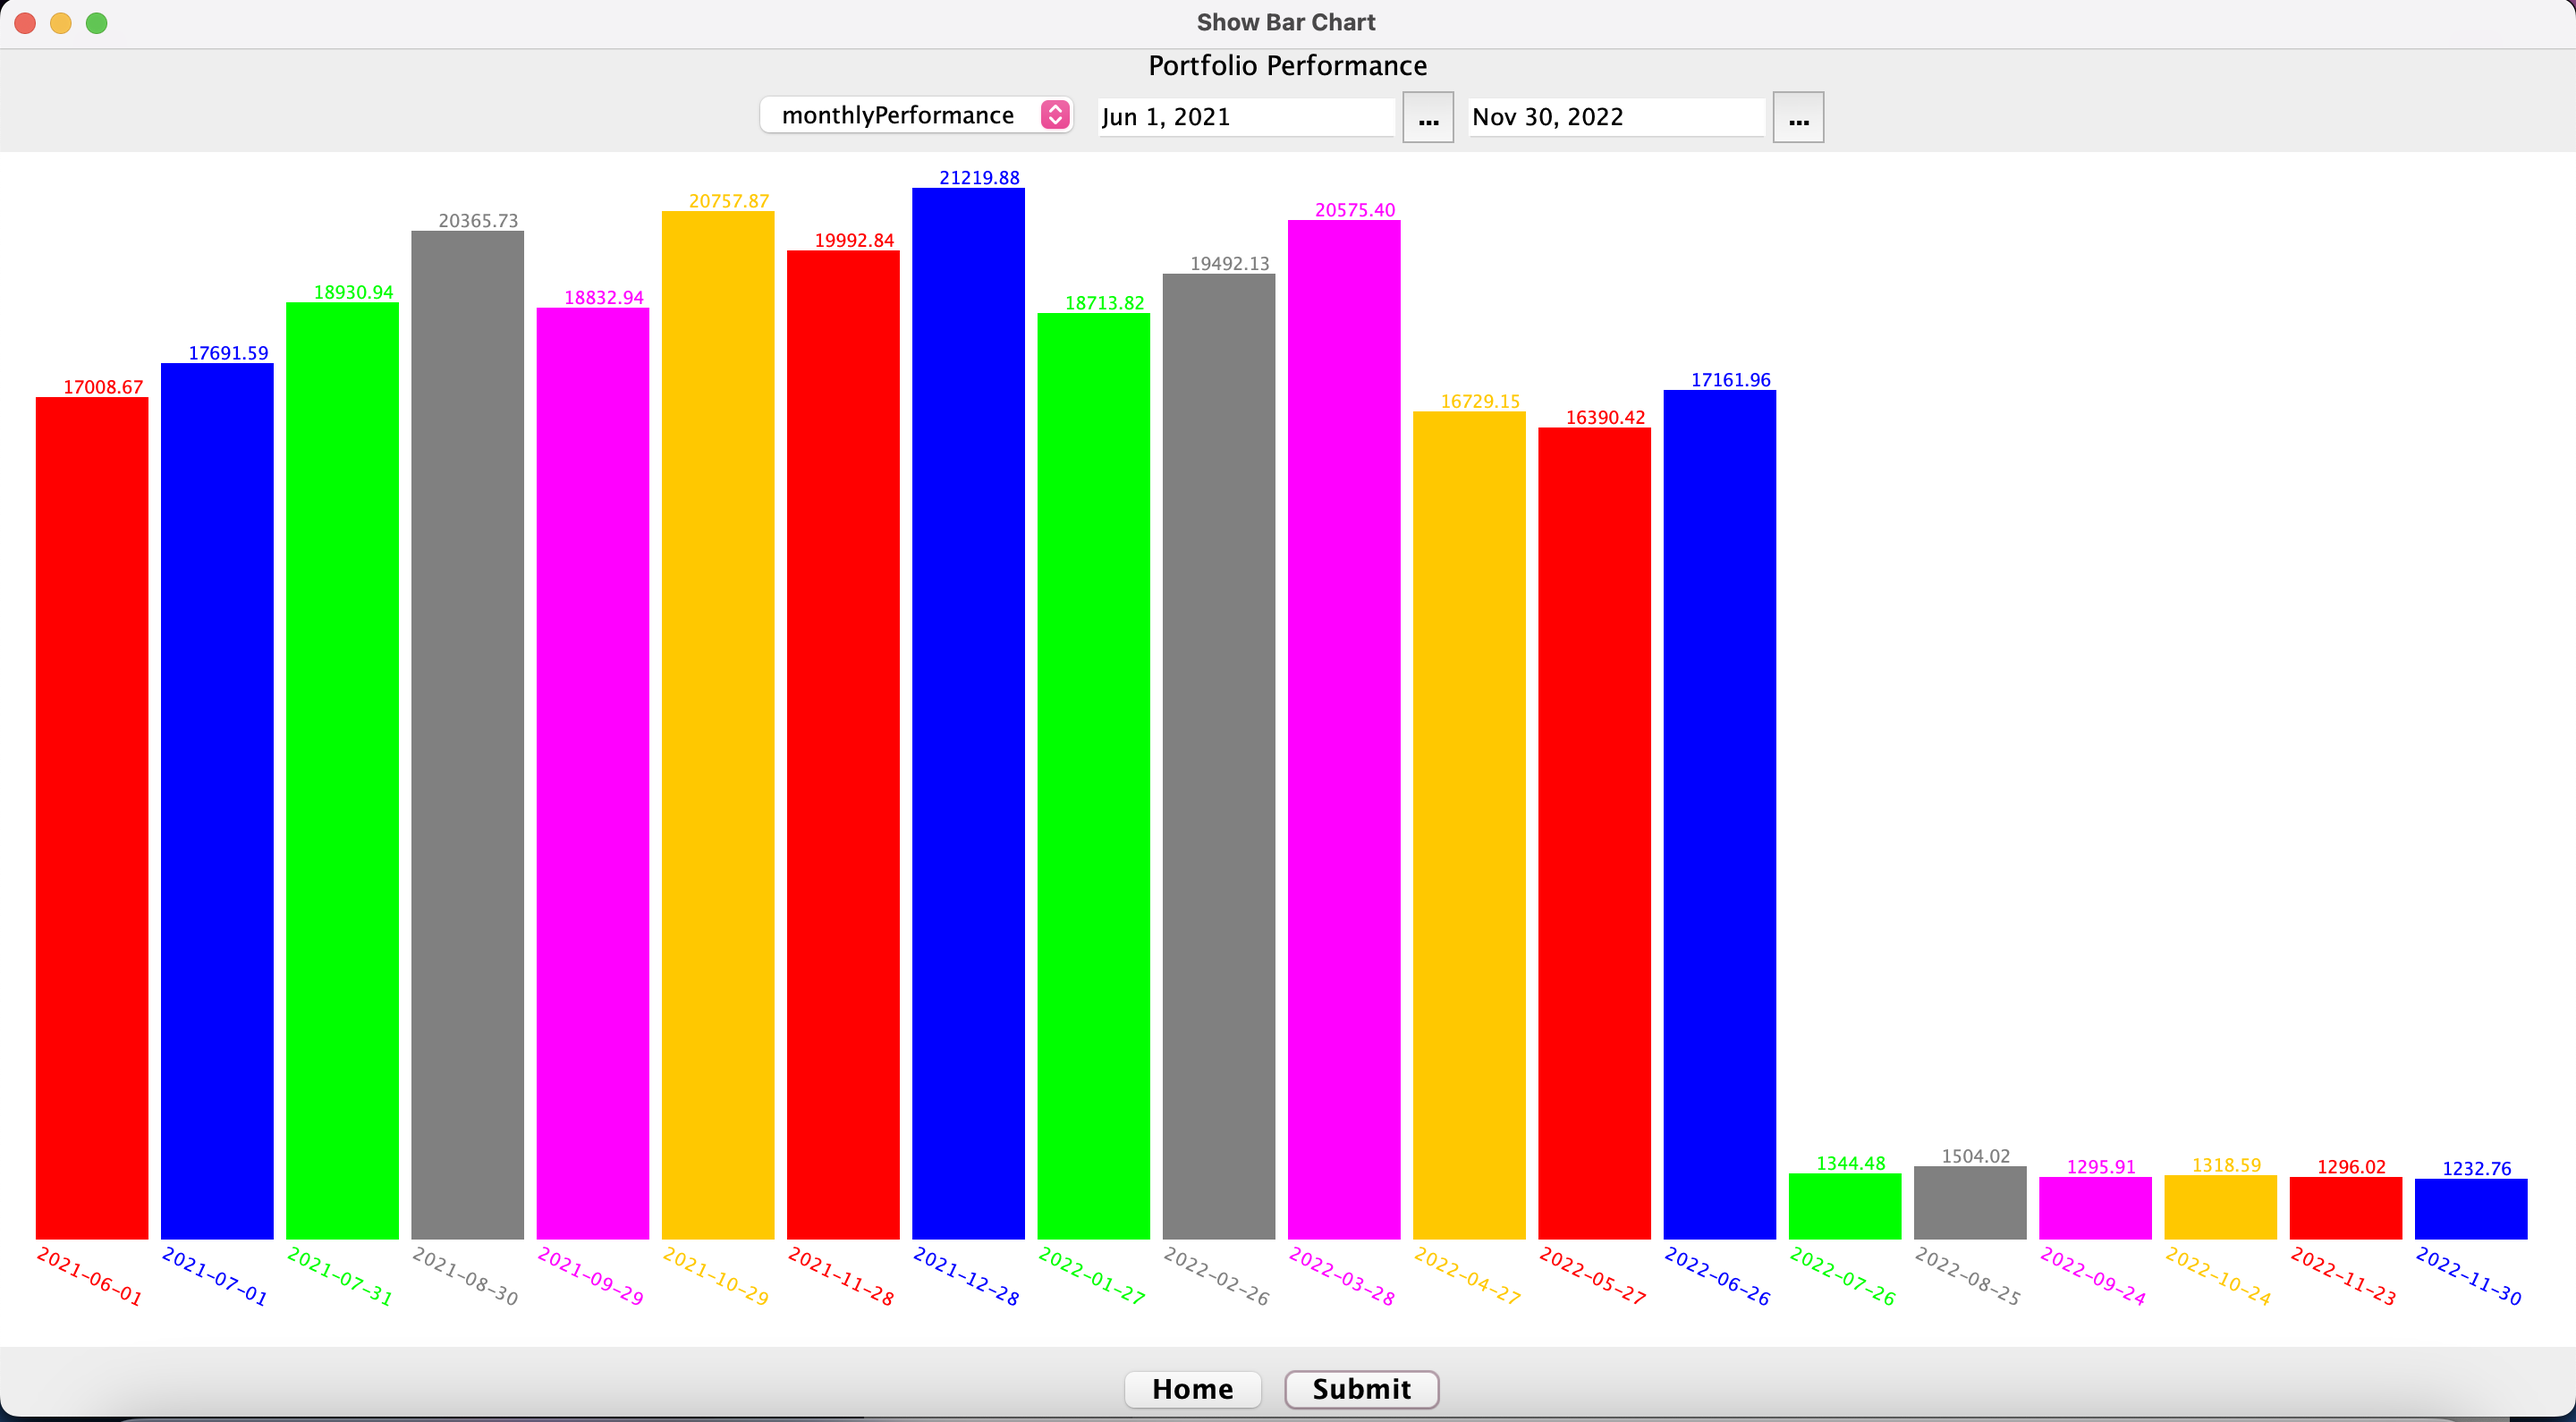
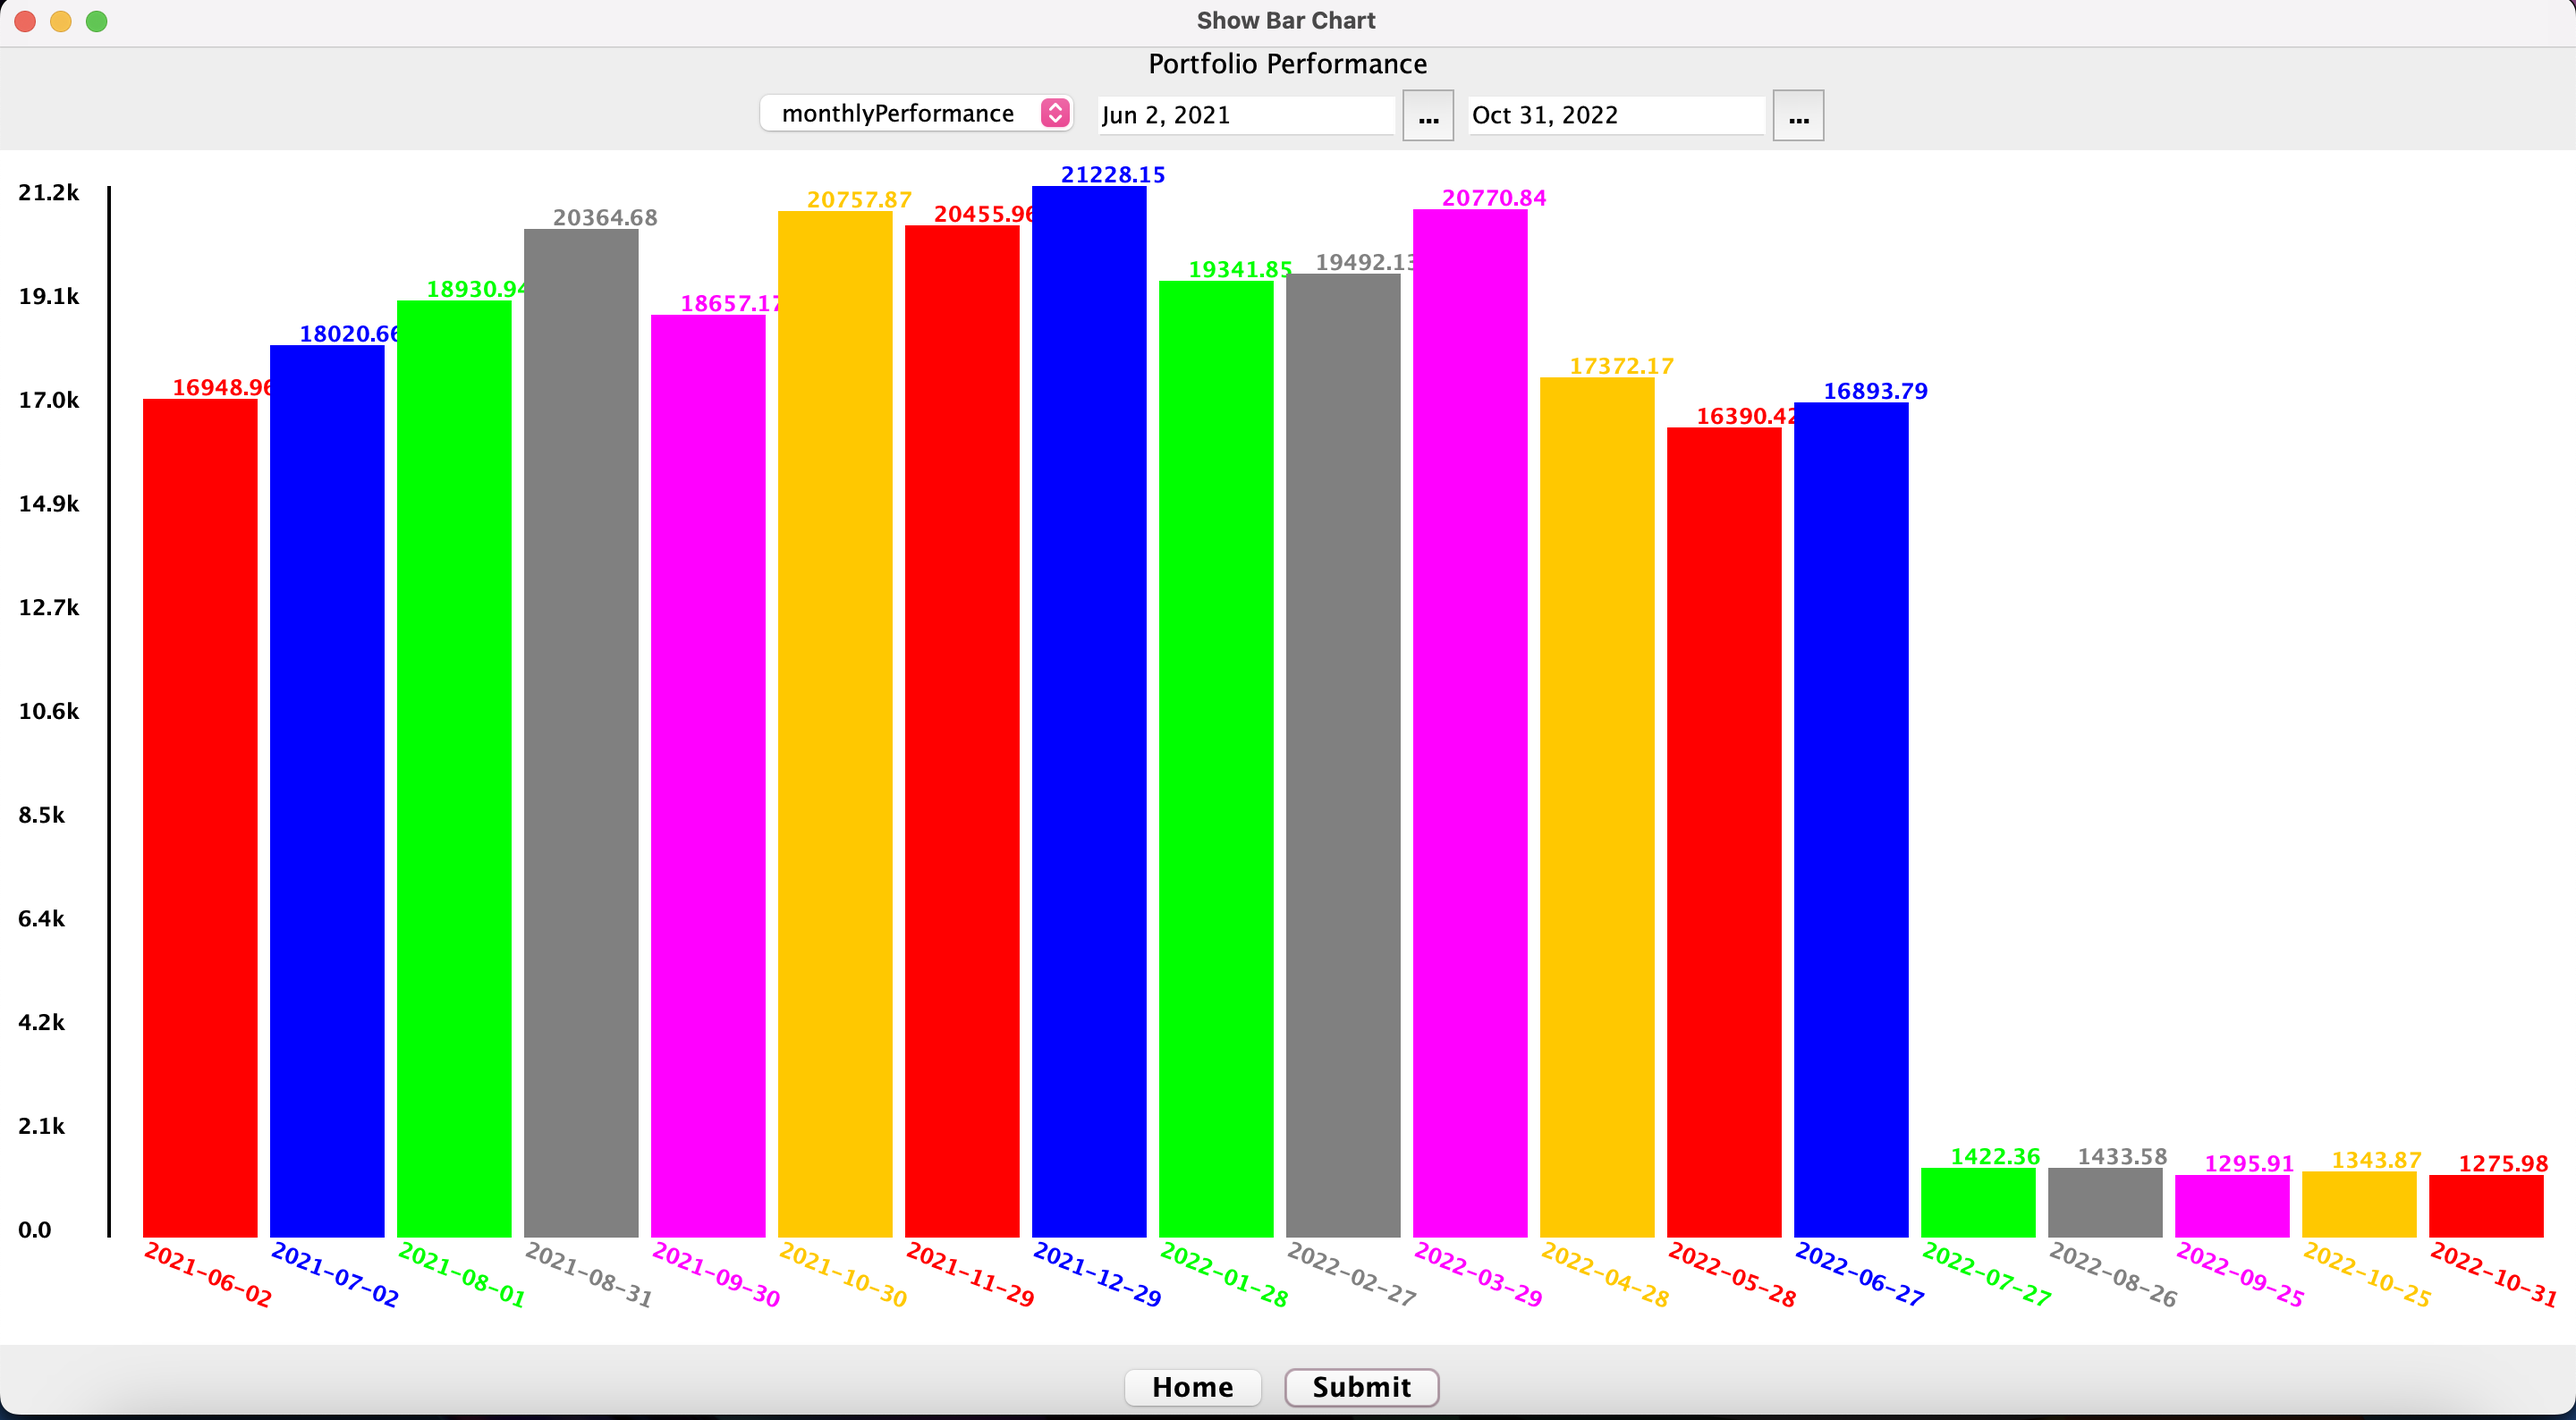
Bar charts changes and captures

diff --git a/src/view/guiscreens/BarChart.java b/src/view/guiscreens/BarChart.java
@@ -106,12 +106,10 @@ public class BarChart extends AbstractScreen {
     private static final long serialVersionUID = 8242113760993687819L;
     private final int margin = 20;
     private final Color background = Color.WHITE;
-    private final List<Color> barColors = Arrays.asList(Color.RED, Color.BLUE,
-            Color.GREEN, Color.GRAY, Color.MAGENTA, Color.ORANGE);
+    private final List<Color> barColors = Arrays.asList(Color.RED, Color.BLUE, Color.GREEN,
+            Color.GRAY, Color.MAGENTA, Color.ORANGE);
 
-    private int width;
-    private int height;
-    private int y;
+    private int width, height, x, y;
     private Map<LocalDate, Double> data;
 
     public BarChartPanel(Map<LocalDate, Double> data) {
@@ -126,8 +124,9 @@ public class BarChart extends AbstractScreen {
     protected void paintComponent(final Graphics g) {
       super.paintComponent(g);
 
-      this.width = this.getWidth() - (2 * margin);
+      this.width = this.getWidth() - 4 * margin;
       this.height = this.getHeight() - (4 * margin);
+      this.x = 4 * margin;
       this.y = this.height + margin;
       draw((Graphics2D) g);
     }
@@ -136,40 +135,65 @@ public class BarChart extends AbstractScreen {
       g.setColor(background);
       g.fillRect(0, 0, this.getWidth(), this.getHeight());
 
-      if (this.data == null || this.data.size() == 0) {
+      if(this.data == null || this.data.size() == 0) {
         return;
       }
-
       double max = Collections.max(this.data.values());
-      int barWidth = (int) (this.width / this.data.size());
+      int barWidth = (int) ((this.width) / this.data.size());
       int gap = (int) Math.floor(0.1 * barWidth);
 
       int count = 0;
       for (var element : data.entrySet()) {
-        int eachbarHeight = (int) (element.getValue() * this.height / max);
+        int eachbarHeight = (int)(element.getValue() * this.height / max);
         int eachBarWidth = barWidth - gap;
-        int xCoord = margin + barWidth * count;
+        int xCoord = this.x + barWidth * count;
         int yCoord = this.y - eachbarHeight;
+
+        if(count == 0) {
+          drawXAxis(g);
+        }
 
         g.setColor(this.barColors.get(count % this.barColors.size()));
         g.fillRect(xCoord, yCoord, eachBarWidth, eachbarHeight);
 
         g.setFont(getFont(0));
-        g.drawString(String.format("%.2f", element.getValue()), xCoord + (eachBarWidth / 4),
-                yCoord - (margin / 8));
+        g.drawString(String.format("%.2f", element.getValue()), xCoord + (eachBarWidth / 4), yCoord - (margin / 8));
 
-        g.setFont(getFont(25));
-        g.drawString(element.getKey().toString(), xCoord, this.y + (margin / 2));
+        g.setFont(getFont(20));
+        g.drawString(element.getKey().toString(), xCoord, this.y + (margin/2));
 
         count += 1;
       }
     }
 
+    private void drawXAxis(Graphics2D g) {
+      g.setColor(Color.BLACK);
+      g.fillRect(this.x - margin, this.y - this.height, 2, this.height);
+
+      double max = Collections.max(this.data.values());
+      double eachValue = max / 10;
+      double each = this.height / 10;
+      for(double i = 0, j = 0; i < this.height; i += each, j += eachValue) {
+        g.setFont(getFont(0));
+        g.drawString(this.xAxisLabelWithSuffix(j), 10, (int)(this.y - i));
+      }
+    }
+
     private Font getFont(double angle) {
-      Font font = new Font(null, Font.BOLD, 10);
+      Font font = new Font(null, Font.BOLD, 12);
       AffineTransform affineTransform = new AffineTransform();
       affineTransform.rotate(Math.toRadians(angle), 0, 0);
       return font.deriveFont(affineTransform);
+    }
+
+    private String xAxisLabelWithSuffix(double value) {
+      if(value < 1000) {
+        return String.format("%.1f",value);
+      }
+
+      int exponent = (int) (Math.log(value) / Math.log(1000));
+      char character = "kMGTPE".charAt(exponent - 1);
+      return String.format("%.1f%c", value / Math.pow(1000, exponent), character);
     }
   }
 }
